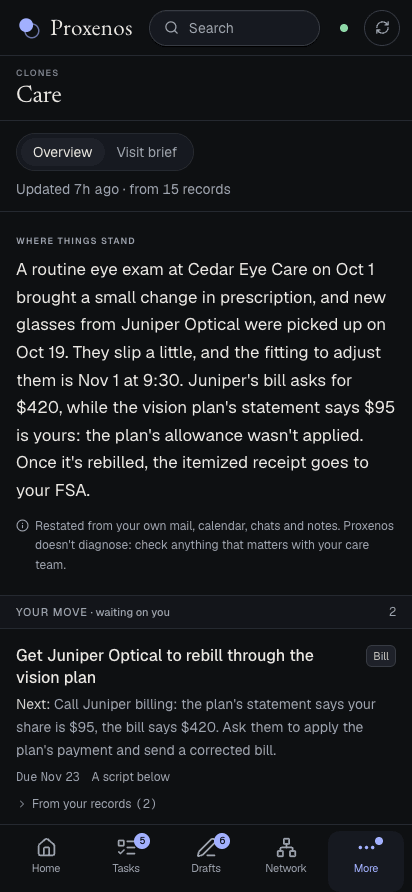
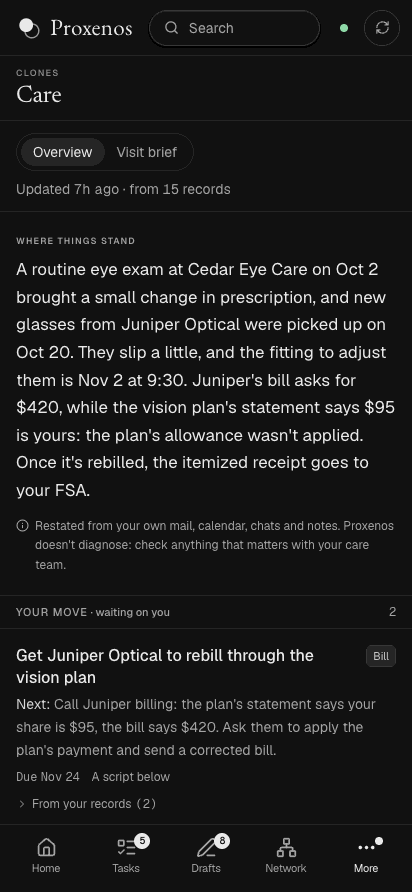
Bring the Proxenos page up to date: forms, calls, plans on the calendar, the daily journal, projects that read their code, drafts that learn from rewrites and follow what you tell them, and pictures in its new neutral dark look

diff --git a/projects/proxenos.html b/projects/proxenos.html
@@ -29,7 +29,7 @@
 	<link href="https://fonts.googleapis.com/css?family=Pacifico&display=swap" rel="stylesheet">
 	<style>
 		.lede { font-size: 1.3rem; color: var(--text-primary); }
-		.shots { display: grid; grid-template-columns: 1fr 1fr; gap: 1rem; margin: 1.5rem 0 0.5rem; max-width: 900px; }
+		.shots { display: grid; grid-template-columns: repeat(3, 1fr); gap: 1rem; margin: 1.5rem 0 0.5rem; max-width: 900px; }
 		.shots img { width: 100%; border-radius: 12px; border: 1px solid var(--border-color); box-shadow: var(--shadow-md); }
 		.shots .wide { grid-column: 1 / -1; }
 		.shots-note { font-size: 0.95rem !important; font-style: italic; }
@@ -44,7 +44,7 @@
 			border: 1px solid var(--primary-color); color: var(--primary-color); margin-left: 0.4rem; vertical-align: middle; }
 		section ul.plain { color: var(--text-secondary); font-size: 1.05rem; line-height: 1.7; padding-left: 1.2rem; max-width: 900px; }
 		section ul.plain li { margin-bottom: 0.4rem; }
-		@media (max-width: 640px) { .shots { grid-template-columns: 1fr 1fr; } .lede { font-size: 1.15rem; } }
+		@media (max-width: 640px) { .shots { gap: 0.5rem; } .lede { font-size: 1.15rem; } }
 	</style>
 </head>
 <!-- Google tag (gtag.js) -->
@@ -145,9 +145,19 @@
 					the phone, and a one-page brief for your next appointment.</li>
 				<li><b>Errands:</b> give it something to get done and it goes as far as it can, then stops one tap short
 					of sending, with every step it took written down.</li>
-				<li><b>Drafts:</b> replies, emails and plans in your voice, ready for you to send.</li>
-				<li><b>Tasks and memory:</b> what you've promised people, and a search across everything you've ever
-					written.</li>
+				<li><b>Drafts:</b> replies, emails and plans in your voice, ready for you to send. It learns from what
+					you actually sent and from drafts you rewrite, and follows what you tell it ("I'm not going on
+					Tuesday", or a rule for every draft).</li>
+				<li><b>Forms:</b> a PDF form filled from your records. ID numbers, account numbers and the signature
+					stay yours to write.</li>
+				<li><b>Calls:</b> it waits on hold for you and rings you when a person picks up, saying it's an
+					automated assistant. Only when you press Call, through your own phone account.</li>
+				<li><b>Tasks and plans:</b> what you've promised people, kept up through the day, with the lunch and
+					the call put on your calendar.</li>
+				<li><b>Journal:</b> each day written down for you: what got done, what's waiting, what's next.</li>
+				<li><b>Projects:</b> where each long project stands, from your messages and its code, with the next
+					step done on a branch for you to accept.</li>
+				<li><b>Memory:</b> a search across everything you've ever written.</li>
 			</ul>
 			<div class="shots">
 				<img class="wide" src="../img/proxenos/home-desktop.png"
@@ -158,6 +168,9 @@
 					loading="lazy">
 				<img src="../img/proxenos/errands-phone.png"
 					alt="The Errands view on a phone: an email to a recruiter, ready to send with a CV attached"
+					loading="lazy">
+				<img src="../img/proxenos/journal-phone.png"
+					alt="The Journal view on a phone: a made-up day's brief, the next three things to do, and the replies sent"
 					loading="lazy">
 			</div>
 			<p class="shots-note">The person in these pictures, Joe Bloggs, is made up, and so is everything he has.</p>
@@ -171,6 +184,8 @@
 				<li>With a model that runs on your computer, nothing leaves it. With Claude, only what each step needs is
 					sent, under your own key.</li>
 				<li>By default it never sends, posts or buys anything by itself. You press send.</li>
+				<li>It never fills an ID number, an account number or a signature, and never agrees to pay on a
+					call.</li>
 			</ul>
 
 			<h3>Get Proxenos</h3>
